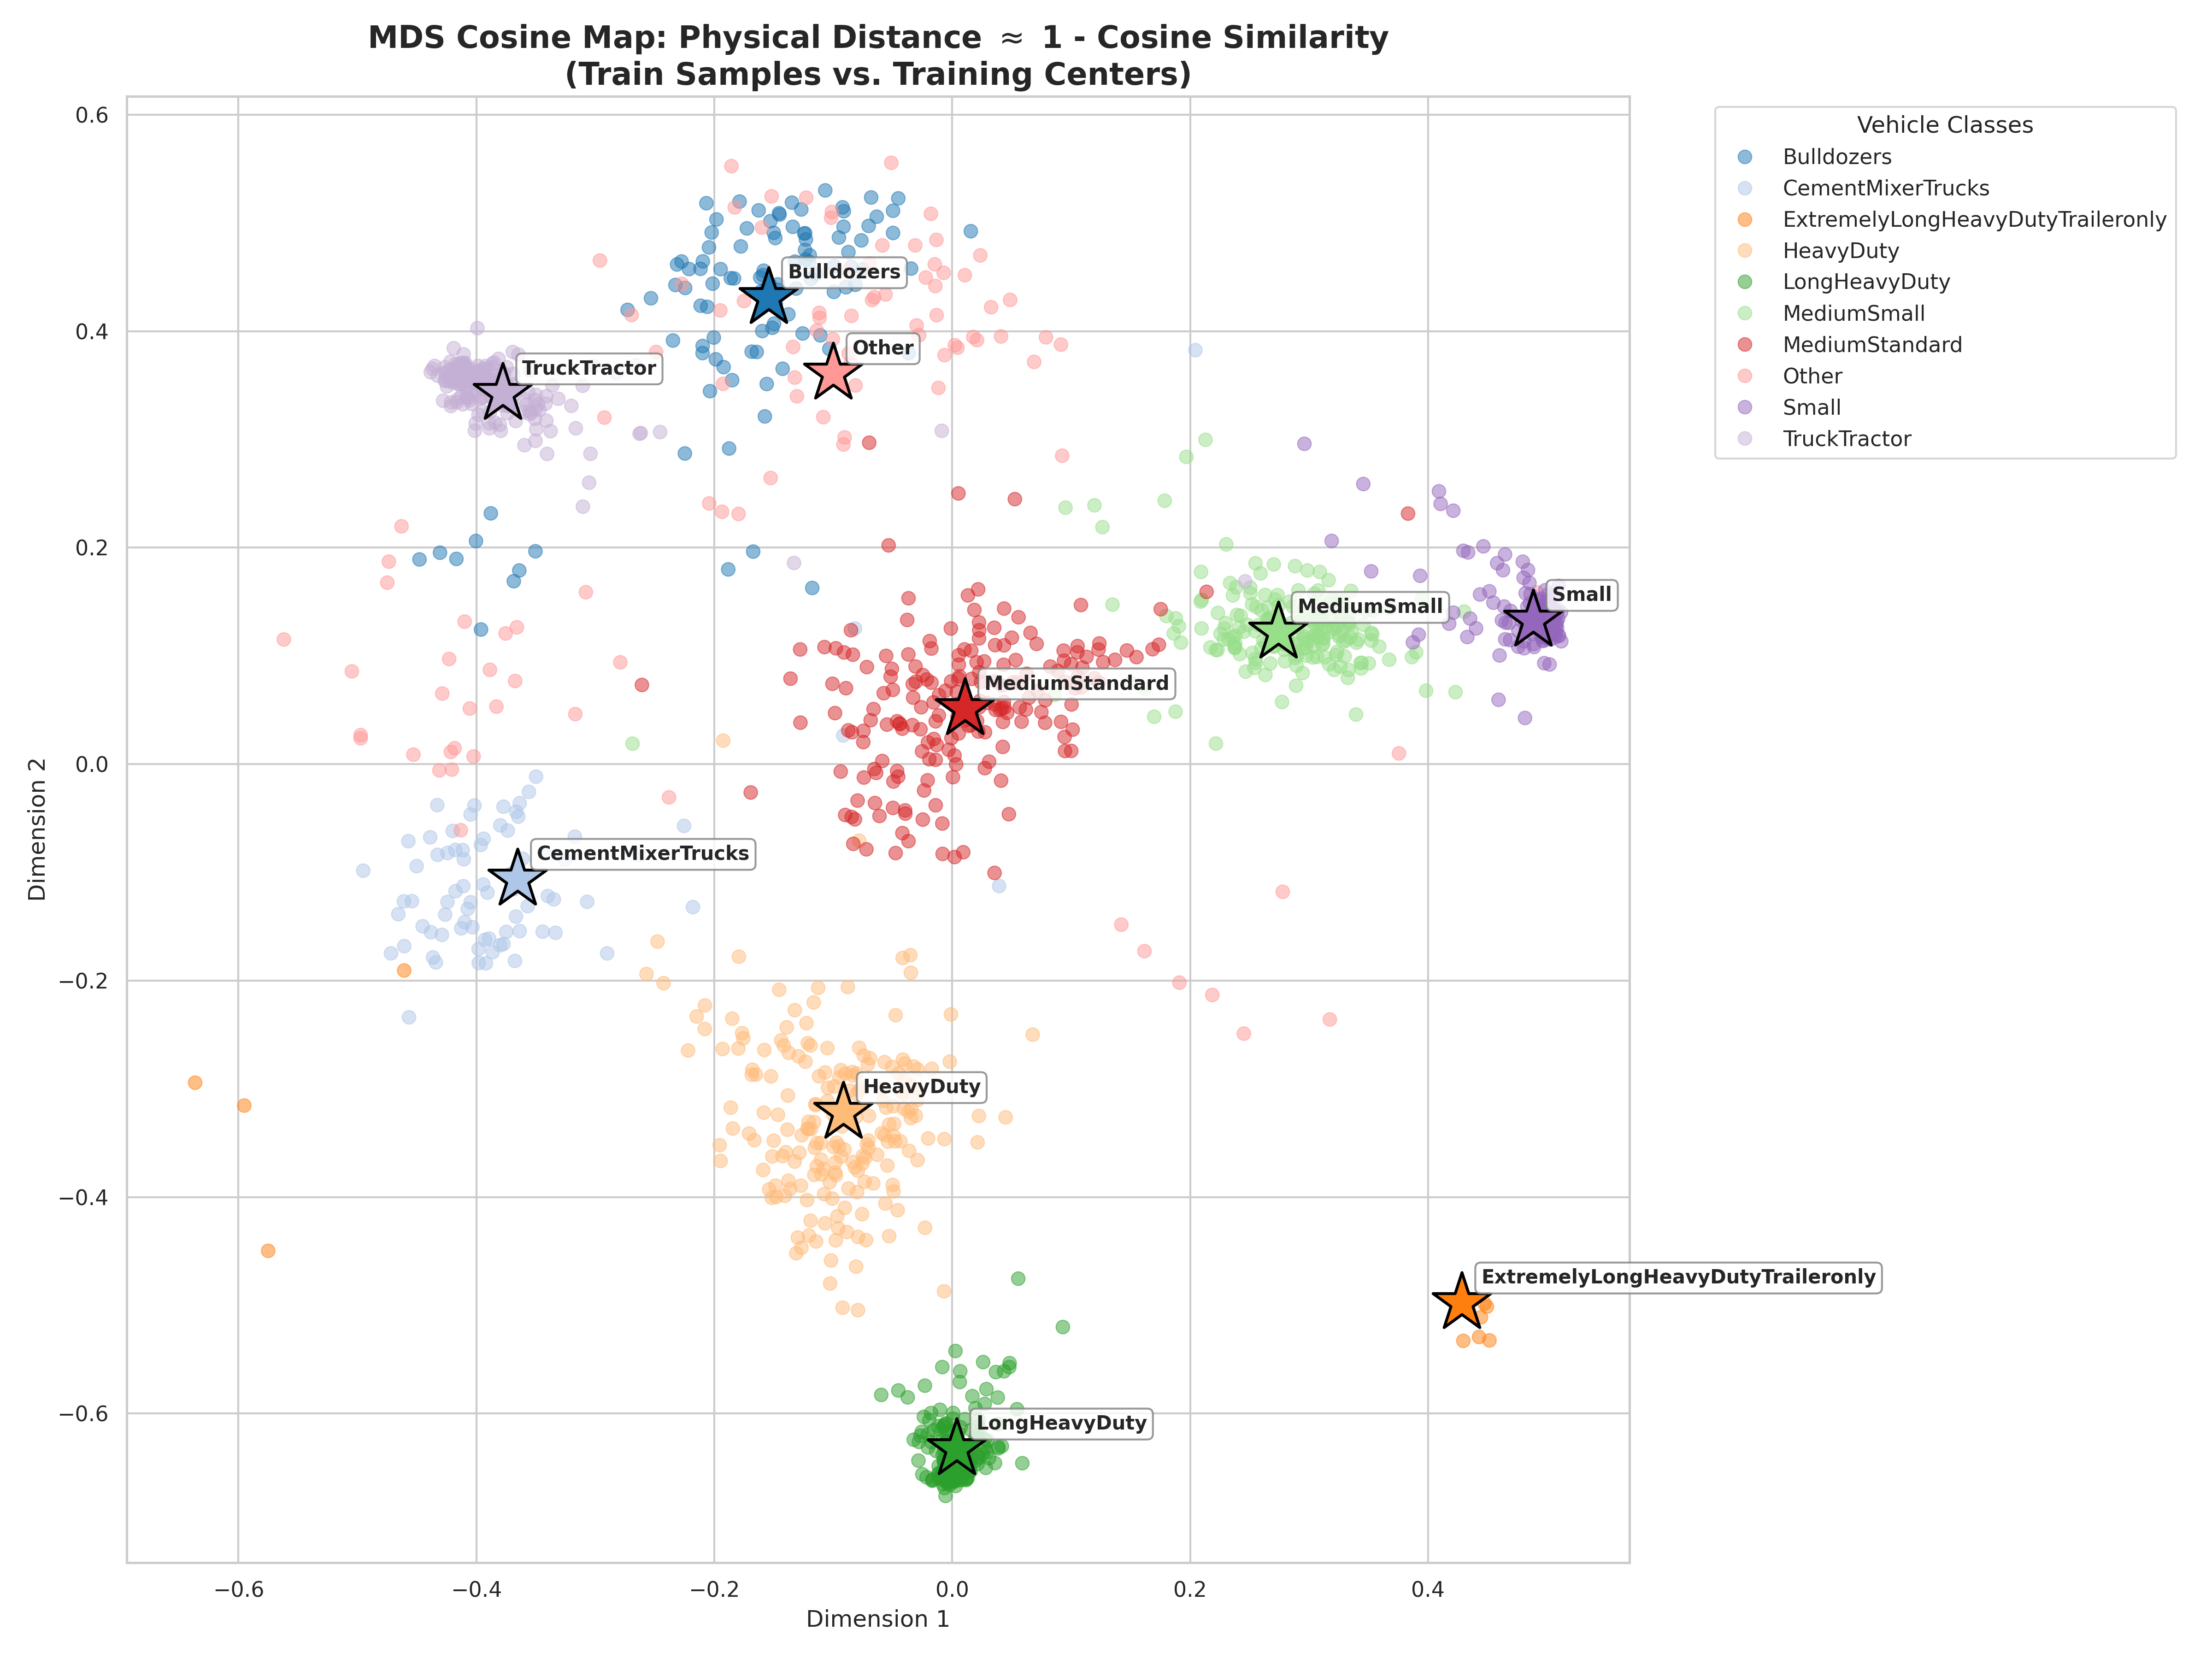
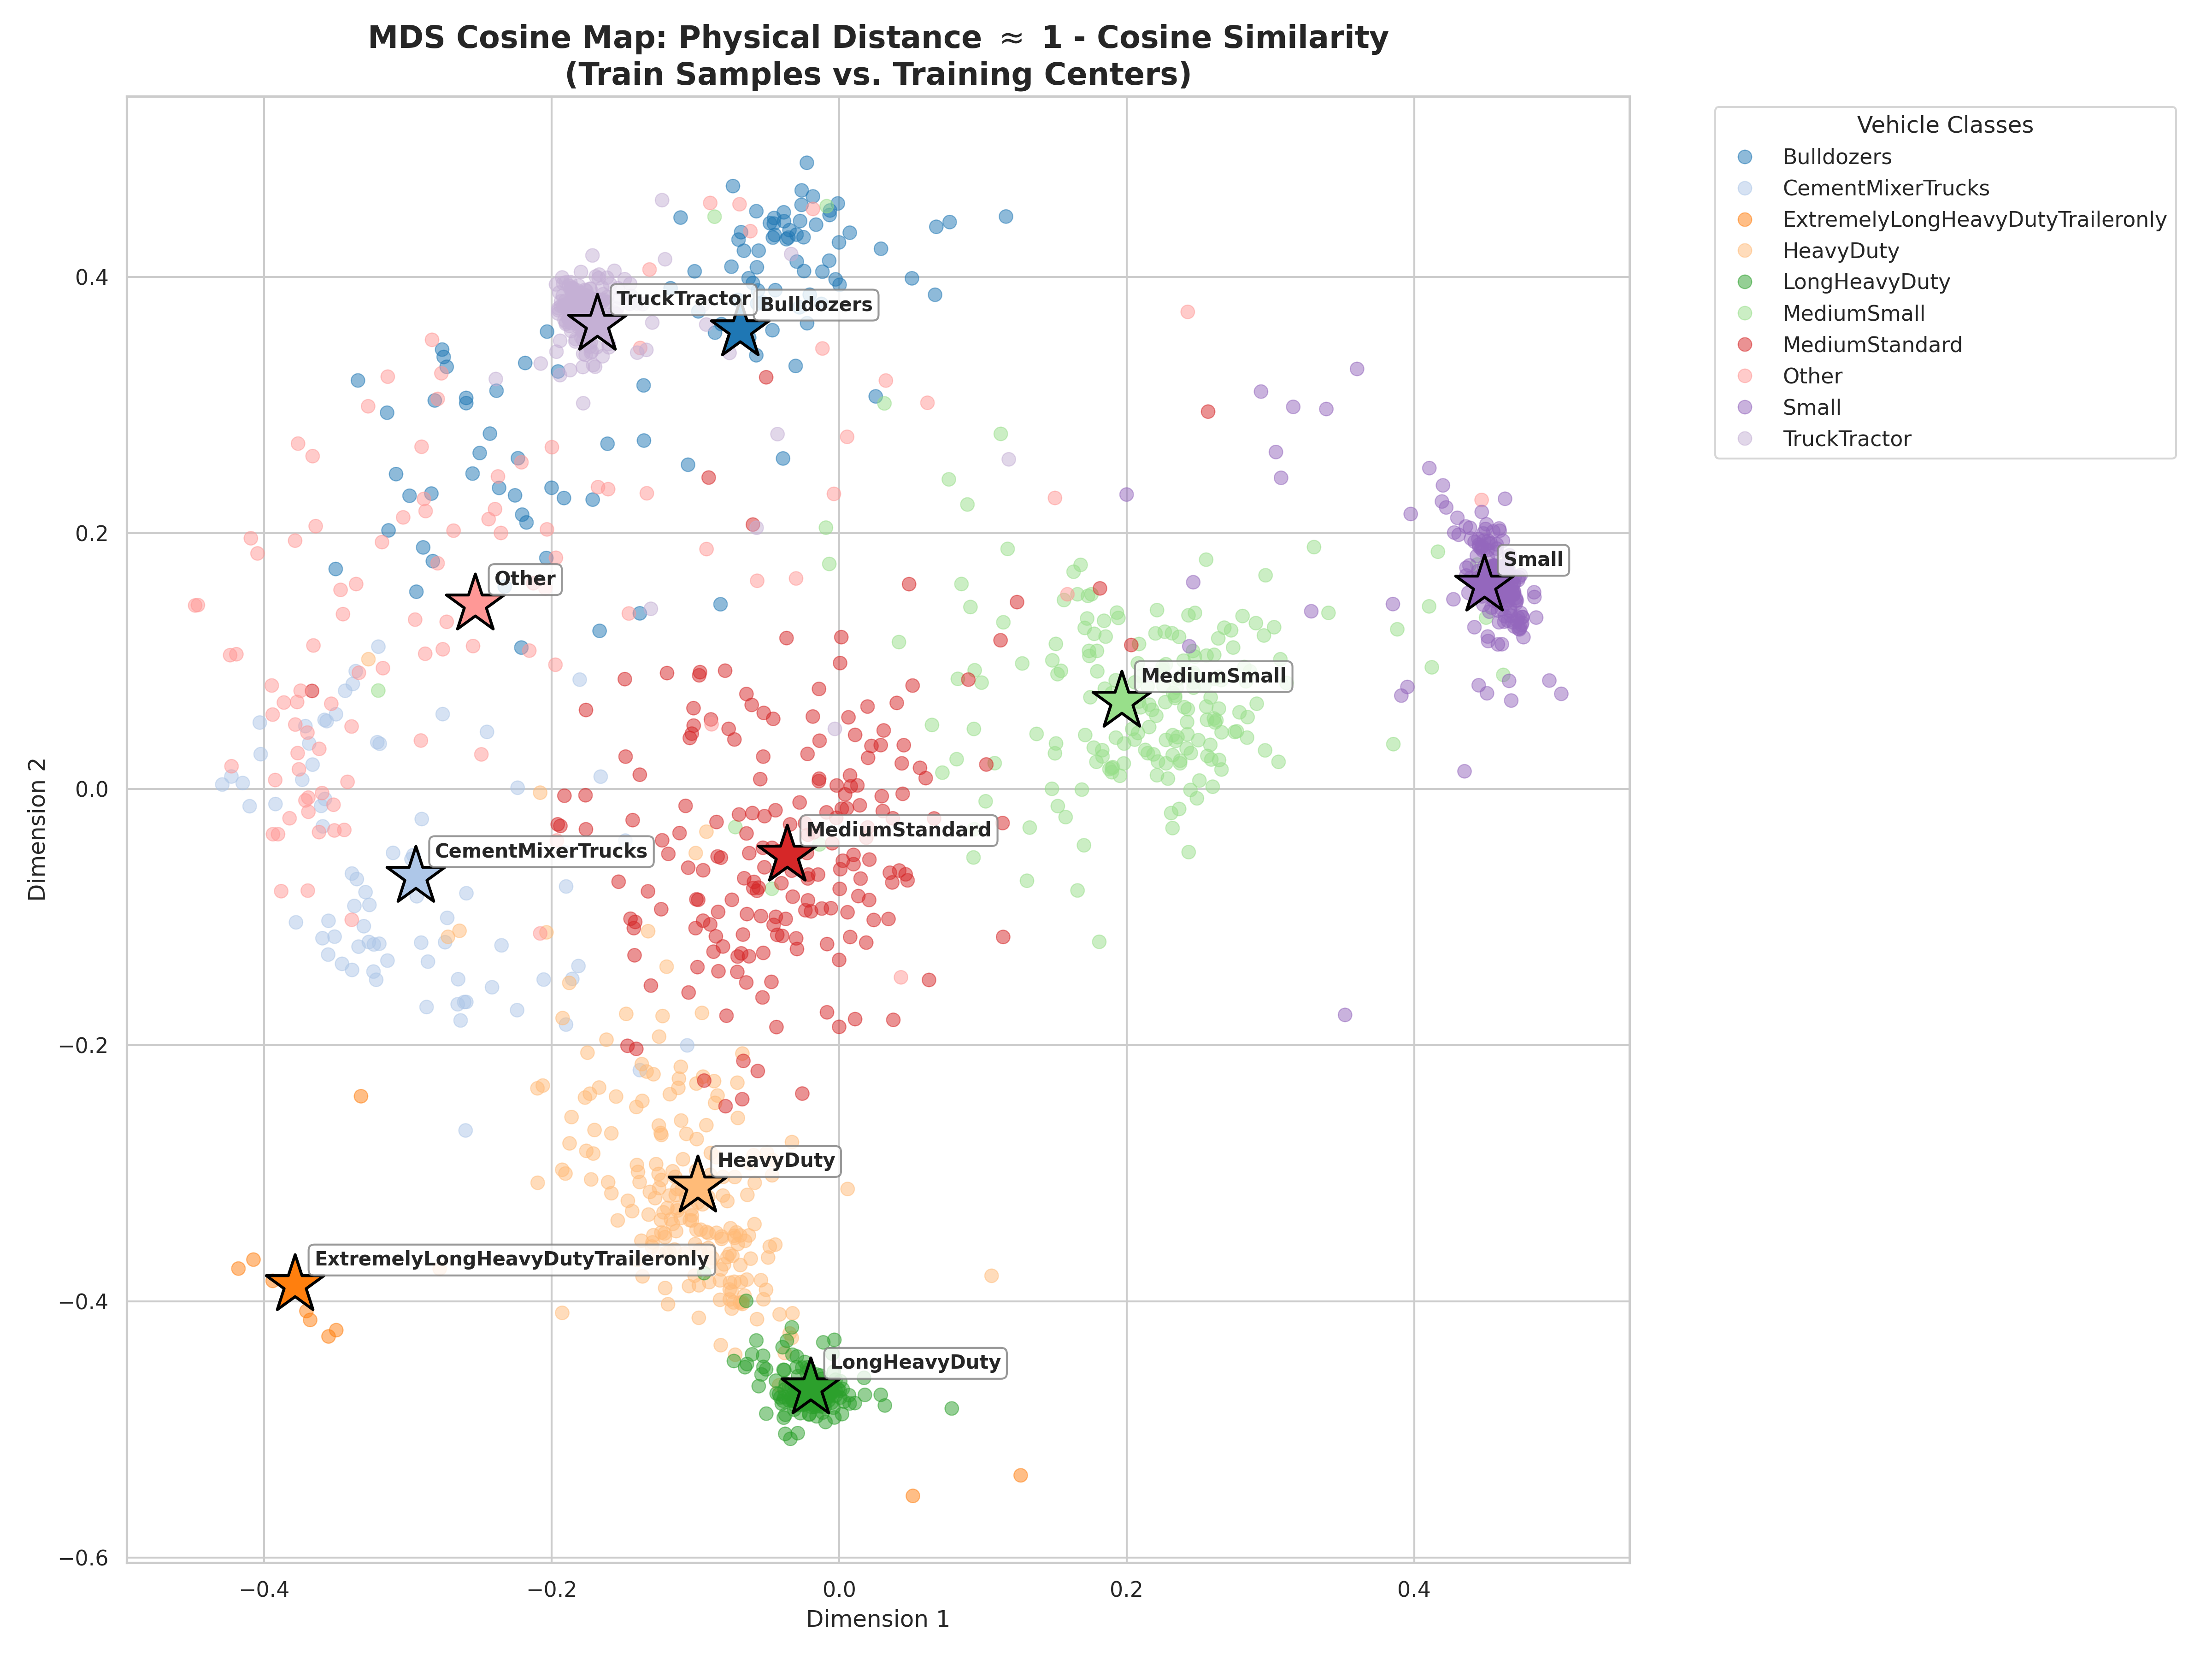
Final changes that made the results: 10 shots - 84% precision, 74% recall with 128 dimensional MLP output layer, L2 normalization and MLP dropout.

diff --git a/Outputs2/Lavyanut/10_shots/ExtremelyLongHeavyDutyTraileronly/MLP-Pytorch-Few-Shots-focal_center-Loss-TOP3-COSINE-Distance-F-SCORE-combined-Based/code_that_made_it.py b/Outputs2/Lavyanut/10_shots/ExtremelyLongHeavyDutyTraileronly/MLP-Pytorch-Few-Shots-focal_center-Loss-TOP3-COSINE-Distance-F-SCORE-combined-Based/code_that_made_it.py
@@ -16,7 +16,7 @@ from torch.utils.data import DataLoader, TensorDataset
 
 import optuna
 
-from sklearn.preprocessing import StandardScaler, LabelEncoder
+from sklearn.preprocessing import StandardScaler, LabelEncoder, Normalizer
 from sklearn.decomposition import KernelPCA
 from sklearn.manifold import TSNE, MDS
 from sklearn.metrics import classification_report, f1_score, fbeta_score
@@ -134,15 +134,19 @@ class MLP_PyTorch(nn.Module):
     """
     def __init__(self, input_dim, num_classes):
         super(MLP_PyTorch, self).__init__()
-        self.fc1 = nn.Linear(input_dim, 512)
-        self.fc2 = nn.Linear(512, 256)
-        self.fc3 = nn.Linear(256, num_classes)
+        self.fc1 = nn.Linear(input_dim, 256) # Reduced size
+        self.dropout1 = nn.Dropout(p=0.4)    # Added dropout
+        self.fc2 = nn.Linear(256, 128)       # Reduced size
+        self.dropout2 = nn.Dropout(p=0.4)    # Added dropout
+        self.fc3 = nn.Linear(128, num_classes)
 
     def forward(self, x):
         h1 = F.relu(self.fc1(x))
+        h1 = self.dropout1(h1)
         h2 = F.relu(self.fc2(h1))
-        logits = self.fc3(h2)
-        return logits, h2  # Returning h2 to extract the 256-D features easily
+        h2_drop = self.dropout2(h2)
+        logits = self.fc3(h2_drop)
+        return logits, h2 # Still return pure h2 for metric distances
     
 
 class FocalLoss(nn.Module):
@@ -210,7 +214,7 @@ def compute_train_centers(model, dataloader, num_classes, device):
     for each class in the 256-D space.
     """
     model.eval()
-    centers = torch.zeros(num_classes, 256).to(device)
+    centers = torch.zeros(num_classes, 128).to(device)
     counts = torch.zeros(num_classes).to(device)
     
     with torch.no_grad():
@@ -445,7 +449,8 @@ def main():
         X_train_scaled = scaler.fit_transform(X_train)
     else:
         print("\nNo saved model found. Preparing for Training...")
-        scaler = StandardScaler()
+        # scaler = StandardScaler()
+        scaler = Normalizer(norm='l2')
         X_train_scaled = scaler.fit_transform(X_train)
         X_test_scaled = scaler.transform(X_test) 
         
@@ -483,7 +488,7 @@ def main():
 
             trial_model = MLP_PyTorch(input_dim=input_dim, num_classes=num_classes).to(device)
             criterion_focal = FocalLoss(weight=class_weights_tensor, gamma=gamma).to(device)
-            criterion_center = CenterLoss(num_classes=num_classes, feat_dim=256, device=device)
+            criterion_center = CenterLoss(num_classes=num_classes, feat_dim=128, device=device)
             
             # Setup Miner and Triplet margin loss dynamically
             miner = pml_miners.BatchHardMiner(distance=pml_dist)
@@ -623,7 +628,7 @@ def main():
         class_weights_tensor = torch.FloatTensor(smoothed_weights).to(device)
 
         criterion_focal = FocalLoss(weight=class_weights_tensor, gamma=best_params['gamma']).to(device)
-        criterion_center = CenterLoss(num_classes=num_classes, feat_dim=256, device=device)
+        criterion_center = CenterLoss(num_classes=num_classes, feat_dim=128, device=device)
         final_center_weight = best_params['center_weight']
 
         miner = pml_miners.BatchHardMiner(distance=pml_dist)

diff --git a/Code/MLP_Classificator.py b/Code/MLP_Classificator.py
@@ -99,7 +99,7 @@ VISUALIZATION_SOURCE = 'train'
 
 Dataset_Name = 'Lavyanut'
 
-SHOTS = 5
+SHOTS = 10
 
 
 
@@ -133,7 +133,6 @@ class MLP_PyTorch(nn.Module):
     Input -> Linear(512) -> ReLU -> Linear(256) -> ReLU -> Linear(num_classes)
     """
     def __init__(self, input_dim, num_classes):
-        def __init__(self, input_dim, num_classes):
         super(MLP_PyTorch, self).__init__()
         self.fc1 = nn.Linear(input_dim, 256) # Reduced size
         self.dropout1 = nn.Dropout(p=0.4)    # Added dropout
@@ -141,13 +140,13 @@ class MLP_PyTorch(nn.Module):
         self.dropout2 = nn.Dropout(p=0.4)    # Added dropout
         self.fc3 = nn.Linear(128, num_classes)
 
-        def forward(self, x):
-            h1 = F.relu(self.fc1(x))
-            h1 = self.dropout1(h1)
-            h2 = F.relu(self.fc2(h1))
-            h2_drop = self.dropout2(h2)
-            logits = self.fc3(h2_drop)
-            return logits, h2 # Still return pure h2 for metric distances
+    def forward(self, x):
+        h1 = F.relu(self.fc1(x))
+        h1 = self.dropout1(h1)
+        h2 = F.relu(self.fc2(h1))
+        h2_drop = self.dropout2(h2)
+        logits = self.fc3(h2_drop)
+        return logits, h2 # Still return pure h2 for metric distances
     
 
 class FocalLoss(nn.Module):
@@ -215,7 +214,7 @@ def compute_train_centers(model, dataloader, num_classes, device):
     for each class in the 256-D space.
     """
     model.eval()
-    centers = torch.zeros(num_classes, 256).to(device)
+    centers = torch.zeros(num_classes, 128).to(device)
     counts = torch.zeros(num_classes).to(device)
     
     with torch.no_grad():
@@ -489,7 +488,7 @@ def main():
 
             trial_model = MLP_PyTorch(input_dim=input_dim, num_classes=num_classes).to(device)
             criterion_focal = FocalLoss(weight=class_weights_tensor, gamma=gamma).to(device)
-            criterion_center = CenterLoss(num_classes=num_classes, feat_dim=256, device=device)
+            criterion_center = CenterLoss(num_classes=num_classes, feat_dim=128, device=device)
             
             # Setup Miner and Triplet margin loss dynamically
             miner = pml_miners.BatchHardMiner(distance=pml_dist)
@@ -629,7 +628,7 @@ def main():
         class_weights_tensor = torch.FloatTensor(smoothed_weights).to(device)
 
         criterion_focal = FocalLoss(weight=class_weights_tensor, gamma=best_params['gamma']).to(device)
-        criterion_center = CenterLoss(num_classes=num_classes, feat_dim=256, device=device)
+        criterion_center = CenterLoss(num_classes=num_classes, feat_dim=128, device=device)
         final_center_weight = best_params['center_weight']
 
         miner = pml_miners.BatchHardMiner(distance=pml_dist)